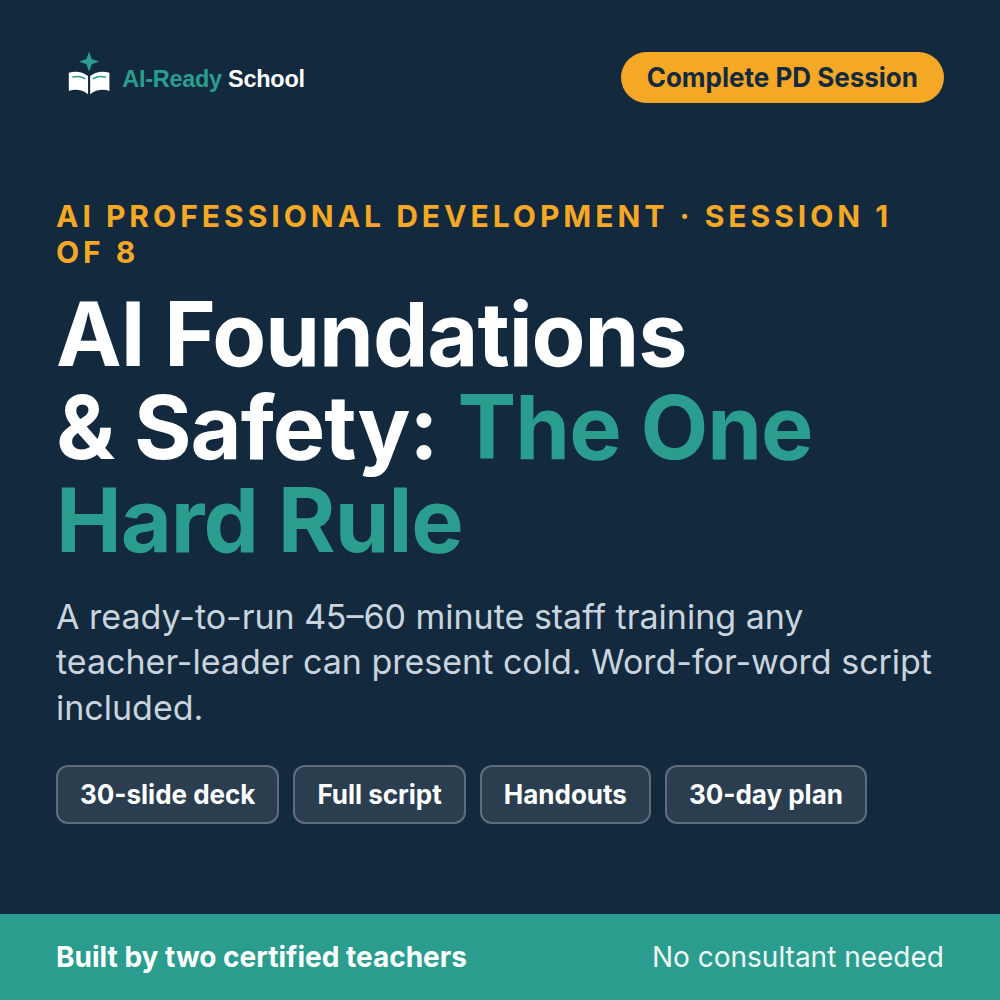
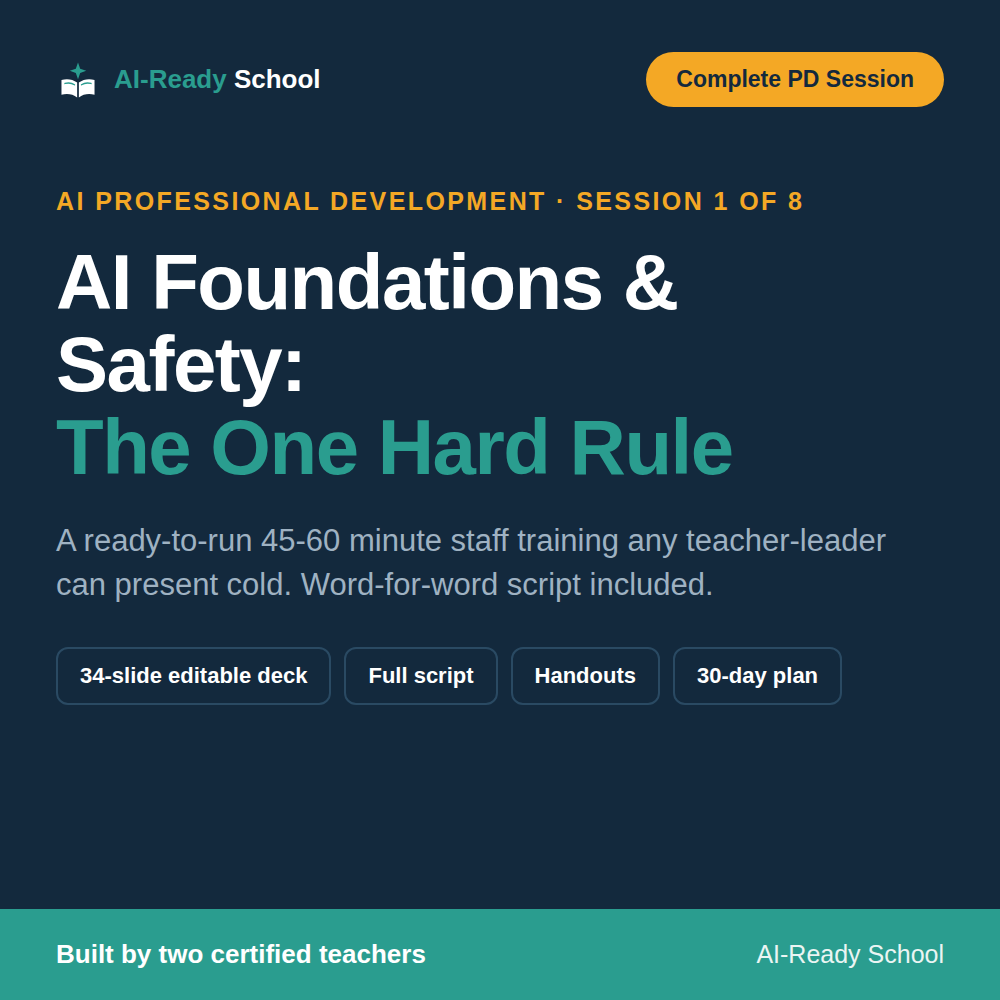
Correct listing copy: decks are 34/33 slides and editable
The kits ship an editable PowerPoint with speaker notes on every slide,
and the launch copy understated it: it said "30-slide deck" and never
said "editable" — a term TpT buyers actively filter on.

Verified against the shipping zips: Kit 1 is 34 slides / 34 notes
slides, Kit 2 is 33 / 33.

- UPLOAD_TODAY.md: slide counts fixed in both descriptions and in Kit 1's
  lede, "fully editable, with speaker notes on every slide" added to both
  INCLUDED lists, a Format line added to both paid listings, both titles
  now lead with "Editable Slides", "editable powerpoint" added to tags.
- make_covers.js: kit1/kit2 added to PRODUCTS so the paid covers are
  generated from the same source as the free ones; chips now read
  "34-slide editable deck" / "33-slide editable deck".

Claude-Session: https://claude.ai/code/session_019agQ42s1igQaB2X7GGat9R

diff --git a/tpt/make_covers.js b/tpt/make_covers.js
@@ -10,6 +10,16 @@ const ROOT = path.resolve(__dirname, '..');
 const OUT = path.join(ROOT, 'tpt/covers');
 
 const PRODUCTS = [
+  { file: 'kit1',                  badge: 'Complete PD Session',
+    kicker: 'AI professional development · session 1 of 8',
+    title: 'AI Foundations & Safety:', accent: 'The One Hard Rule',
+    lede: 'A ready-to-run 45-60 minute staff training any teacher-leader can present cold. Word-for-word script included.',
+    chips: ['34-slide editable deck', 'Full script', 'Handouts', '30-day plan'] },
+  { file: 'kit2',                  badge: 'Complete PD Session',
+    kicker: 'AI professional development · session 2 of 8',
+    title: 'Prompting Basics:', accent: 'Useful Results Every Time',
+    lede: 'The session every staff asks for. Teachers build a reusable prompt template for a task they do every week.',
+    chips: ['33-slide editable deck', 'Full script', 'Handouts', '30-day plan'] },
   { file: 'free-ten-prompts',      badge: 'Free',
     kicker: 'Free resource · grades K-12',
     title: '10 Copy-Paste AI Prompts', accent: 'for Teachers',

diff --git a/tpt/UPLOAD_TODAY.md b/tpt/UPLOAD_TODAY.md
@@ -127,8 +127,9 @@ whole-staff purchase happen, and a staff purchase is the actual business.
 - **File:** `02-paid/AI-Ready-School-Kit-01.zip` · **Cover:** `kit1-cover.png`
 - **Price:** $24 · **Additional licenses: $10** · **Grades:** Staff / PD
 - **Types:** Professional Development, Staff Meeting, Presentations
+- **Format:** ZIP (8 PDFs + editable PowerPoint)
 - **Title:** AI Professional Development for Teachers | Complete Staff PD Session | AI
-  Foundations & Safety with Script, Slides & Handouts
+  Foundations & Safety with Editable Slides, Script & Handouts
 - **Description:**
   > Run a complete, professional AI training for your staff THIS MONTH, with no
   > consultant and no prep marathon. This is Session 1 of the AI Foundations series:
@@ -136,11 +137,12 @@ whole-staff purchase happen, and a staff purchase is the actual business.
   > every educator must follow.
   >
   > Any confident teacher-leader can present it cold. The script is word for word, the
-  > 30-slide deck matches it cue for cue, and a live AI mistake during the hands-on lab
+  > 34-slide deck matches it cue for cue, and a live AI mistake during the hands-on lab
   > is a teaching gift rather than a failure.
   >
-  > INCLUDED (9 components): facilitator prep guide (15-minute read) · word-for-word
-  > script · 30-slide presentation deck · participant handout · first-48-hours action
+  > INCLUDED (9 files): facilitator prep guide (15-minute read) · word-for-word
+  > script · **34-slide PowerPoint deck, fully editable, with speaker notes on every
+  > slide** · participant handout · first-48-hours action
   > sheet · 30-day implementation plan with PLC follow-ups · exit ticket that doubles as
   > PD documentation · admin one-pager · full APA references with every statistic
   > verified against the live source.
@@ -151,15 +153,16 @@ whole-staff purchase happen, and a staff purchase is the actual business.
   > Built and audited by a husband-and-wife team of certified teachers with 20+ combined
   > years in classrooms.
 - **Tags:** ai professional development, ai pd, staff training, chatgpt for teachers,
-  ai safety, student privacy, ferpa, staff meeting, back to school, presentation
+  ai safety, student privacy, ferpa, staff meeting, back to school, editable powerpoint
 
 ## PAID 2 · Kit 2 — Prompting Basics · $24
 
 - **File:** `02-paid/AI-Ready-School-Kit-02.zip` · **Cover:** `kit2-cover.png`
 - **Price:** $24 · **Additional licenses: $10** · **Grades:** Staff / PD
 - **Types:** Professional Development, Staff Meeting, Presentations
+- **Format:** ZIP (8 PDFs + editable PowerPoint)
 - **Title:** ChatGPT & AI Prompting PD for Teachers | Complete Staff Training Session |
-  Prompt Writing Workshop with Script, Slides & Handouts
+  Editable Slides, Script & Handouts
 - **Description:**
   > The session every staff asks for: how to get consistently useful results from
   > ChatGPT, Claude, Gemini, or Copilot instead of occasionally lucky ones.
@@ -168,8 +171,9 @@ whole-staff purchase happen, and a staff purchase is the actual business.
   > a reusable prompt template for a task they do every week, in a hands-on lab with a
   > word-for-word facilitator script.
   >
-  > INCLUDED (9 components): facilitator prep guide · word-for-word script · 30-slide
-  > presentation deck · participant handout · first-48-hours action sheet · 30-day plan ·
+  > INCLUDED (9 files): facilitator prep guide · word-for-word script · **33-slide
+  > PowerPoint deck, fully editable, with speaker notes on every slide** · participant
+  > handout · first-48-hours action sheet · 30-day plan ·
   > exit ticket · admin one-pager · full APA references.
   >
   > RUNNING THIS WITH YOUR WHOLE STAFF? Additional licenses are $10 each, and we accept
@@ -178,7 +182,7 @@ whole-staff purchase happen, and a staff purchase is the actual business.
   > Session 2 of the AI Foundations series. Pairs with Session 1 or runs on its own for
   > staff who know the basics. Built and audited by two certified teachers.
 - **Tags:** chatgpt for teachers, ai prompts, prompt engineering, teacher pd,
-  staff training, ai workshop, time savers, professional development, presentation
+  staff training, ai workshop, professional development, editable powerpoint
 
 ---
 
